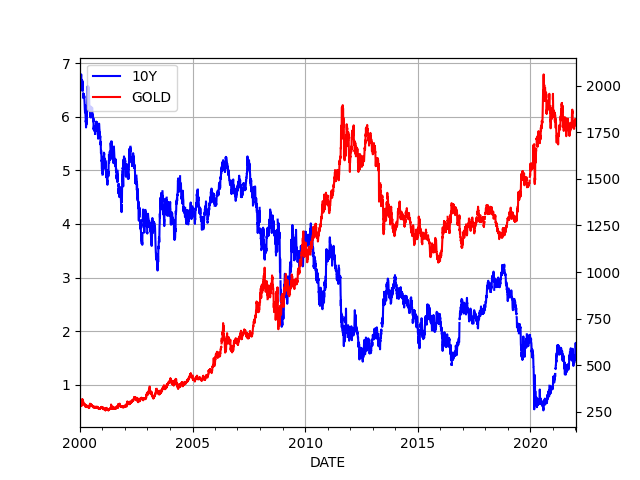
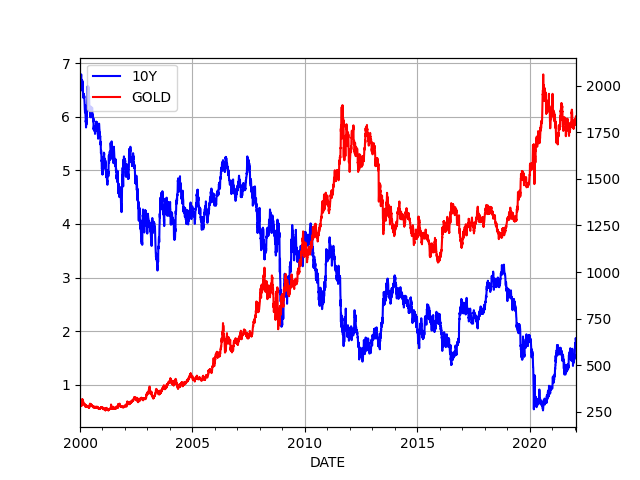
-

diff --git a/en/search.html b/en/search.html
@@ -10,7 +10,7 @@
       <input style="width:25px" value="»" name="btnG" type="submit"/>
       <input value="muratk3n.github.io" name="domains"
              type="hidden"/>
-      <input value="muratk3n.github.io/thirdwave/en" name="sitesearch"
+      <input value="muratk5n.github.io/thirdwave/en" name="sitesearch"
              type="hidden"/>
     </form>
   </body>

diff --git a/en/2019/05/stats.md b/en/2019/05/stats.md
@@ -598,7 +598,8 @@ today = datetime.datetime.now()
 start=datetime.datetime(2000, 1, 1)
 end=datetime.datetime(today.year, today.month, today.day)
 df = data.DataReader(['DGS10', 'GOLDAMGBD228NLBM'], 'fred', start, end)
-print (df.tail(5))
+df = df.interpolate()
+print (df.tail(10))
 ax1 = df.DGS10.plot(color='blue', grid=True, label='10Y')
 ax2 = df.GOLDAMGBD228NLBM.plot(color='red', grid=True, label='GOLD',secondary_y=True)
 h1, l1 = ax1.get_legend_handles_labels()
@@ -610,11 +611,16 @@ plt.savefig('10yrgld.png')
 ```text
             DGS10  GOLDAMGBD228NLBM
 DATE                               
-2022-01-10   1.78           1800.55
-2022-01-11   1.75           1805.20
-2022-01-12   1.74           1816.40
-2022-01-13   1.70           1822.40
-2022-01-14    NaN           1822.25
+2022-01-10  1.780           1800.55
+2022-01-11  1.750           1805.20
+2022-01-12  1.740           1816.40
+2022-01-13  1.700           1822.40
+2022-01-14  1.780           1822.25
+2022-01-17  1.825           1820.05
+2022-01-18  1.870           1810.80
+2022-01-19  1.830           1817.50
+2022-01-20  1.830           1836.70
+2022-01-21  1.830           1834.25
 ```
 
 ![](10yrgld.png)
